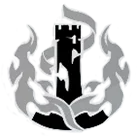
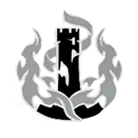
Style changes and bug fixes

diff --git a/src/banners/WeapBanner.js b/src/banners/WeapBanner.js
@@ -37,14 +37,14 @@ export default function WeapBanner({ vers, rerun = false }) {
 
   const nameRef = useRef(null);
 
-  const [pathY, setPathY] = useState(80);
+  const [pathY, setPathY] = useState(75);
 
   useEffect(() => {
     const height = Math.round(getHeight(87, 160));
     if (nameRef.current.offsetHeight === height) setPathY(130);
-    else if (nameRef.current.offsetHeight === height / 3) setPathY(80);
+    else if (nameRef.current.offsetHeight === height / 3) setPathY(75);
     else setPathY(105);
-  }, [nameRef.current?.offsetHeight, getHeight]);
+  }, [nameRef.current?.offsetHeight, getHeight, i18n.resolvedLanguage]);
 
   return (
     <React.Fragment>

diff --git a/src/App.js b/src/App.js
@@ -149,9 +149,10 @@ function App() {
   const [hasFive, setHasFive] = useState(false);
   const [hasFour, setHasFour] = useState(false);
 
-  const handleTrack = (track, loaded = false) => {
+  const handleTrack = (newTrack, loaded = false) => {
+    if (newTrack === track) return;
     setLoaded(loaded);
-    setTrack(track);
+    setTrack(newTrack);
   };
 
   const [playWarpBGM, warpData] = useSound("/assets/audio/bgm/warp-loop.mp3", {

diff --git a/src/css/App.css b/src/css/App.css
@@ -10,6 +10,7 @@
 
 body * {
   font-family: Default_Font;
+  letter-spacing: -1px;
 }
 
 @font-face {
@@ -454,8 +455,10 @@ body * {
   /* justify-content: space-between; */
   align-items: center;
   transition: background-color 0.2s;
-  height: 130px;
+  min-height: 130px;
+  max-height: fit-content;
   width: 95%;
+  padding: 4px 0;
 }
 
 .vers-info:hover {

diff --git a/src/css/Banners.css b/src/css/Banners.css
@@ -1,3 +1,9 @@
+@keyframes banner-ring-spin {
+  to {
+    transform: translate(-24%, -50%) rotate(-360deg);
+  }
+}
+
 .rate-icon {
   width: 80px;
   height: 100px;
